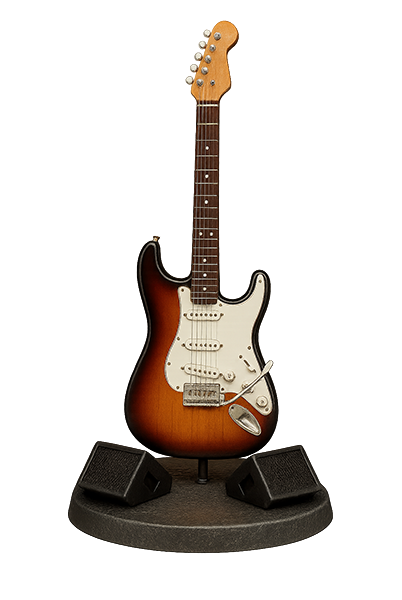
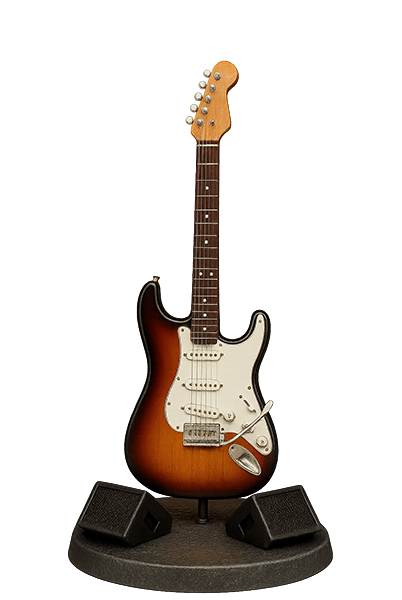
v3.4 add new figurines

Changed region(s): [[0.1493, 0.03, 0.8358, 0.99]]

diff --git a/README.md b/README.md
@@ -2,16 +2,16 @@
   
 <img width="2278" height="600" alt="background" src="https://github.com/user-attachments/assets/1a15e0c6-f3f1-47c3-a351-7187e9239bf4" />
   
-# Version 3.3 (2026 09 26)
+# Version 3.4 (2026 10 05)
 
 ## ![gb](https://github.com/Snapouille/es-theme-Animatics-DX-Music/assets/105559045/a1e80520-3bff-4ff7-9bbf-d96489424fc3)  
   
-This add-on gives you access to over 2200 figurines that will appear in the game carousel view of the Animatics-DX theme. The figurines are displayed either by family or by the name of the games in your gamelists. The directories are organized as follows:
+This add-on gives you access to over 2365 figurines that will appear in the game carousel view of the Animatics-DX theme. The figurines are displayed either by family or by the name of the games in your gamelists. The directories are organized as follows:
 
 **_inc\figurines\family**: for figurines categorized by family  
 **_inc\figurines\gameName**: for figurines categorized by game name
 
-These figurines were created with the help of ChatGPT by Patrix91, Cyraxcop84, Myos, Aynshe and myself. Of course, you can add your own figurines and even share them with us so we can integrate them directly into the add-on. You will find a text file named "ChatGPT figurines script"—simply copy and paste this text into ChatGPT to generate figurines with the quality we are looking for.
+These figurines were created with the help of ChatGPT by Patrix91, Cyraxcop84, Myos, Aynshe, Nouredine and myself. Of course, you can add your own figurines and even share them with us so we can integrate them directly into the add-on. You will find a text file named "ChatGPT figurines script"—simply copy and paste this text into ChatGPT to generate figurines with the quality we are looking for.
 This pack will be regularly updated. If you want to help, you can check the Google Sheet below to see which figurines are awaiting creation.
 
 💾 <ins> **HOW TO DOWNLOAD?** </ins> --> Click to <img width="73" height="21" alt="code" src="https://github.com/user-attachments/assets/7b8aeffd-ba90-4a55-a02b-f5ec8cd52cca" /> top right and download ZIP.    
@@ -24,12 +24,12 @@ This pack will be regularly updated. If you want to help, you can check the Goog
   
 ## ![fr](https://github.com/Snapouille/es-theme-Animatics-DX-Music/assets/105559045/c889ac90-f68b-4008-80ff-7d1903eed8eb)  
 
-Cet add-on vous donne accès à plus de 2200 figurines qui s'afficheront dans la vue gamecarousel du thème Animatics-DX. Les figurines sont affichées soit par famille, soit par nom des jeux de vos gamelists. Les répertoires sont organisés comme suit :
+Cet add-on vous donne accès à plus de 2365 figurines qui s'afficheront dans la vue gamecarousel du thème Animatics-DX. Les figurines sont affichées soit par famille, soit par nom des jeux de vos gamelists. Les répertoires sont organisés comme suit :
 
 **_inc\figurines\family** : pour les figurines classées par famille  
 **_inc\figurines\gameName** : pour les figurines classées par nom de jeu
 
-Ces figurines ont été créées avec l’aide de ChatGPT par Patrix91, Cyraxcop84, Myos, Aynshe et moi-même. Bien sûr, vous pouvez ajouter vos propres figurines et même nous les partager pour qu’elles soient intégrées directement dans l’add-on. Vous trouverez un fichier texte nommé "ChatGPT figurines script" : il vous suffit de copier-coller ce texte dans ChatGPT pour générer des figurines avec la qualité que nous recherchons.
+Ces figurines ont été créées avec l’aide de ChatGPT par Patrix91, Cyraxcop84, Myos, Aynshe, Nouredine et moi-même. Bien sûr, vous pouvez ajouter vos propres figurines et même nous les partager pour qu’elles soient intégrées directement dans l’add-on. Vous trouverez un fichier texte nommé "ChatGPT figurines script" : il vous suffit de copier-coller ce texte dans ChatGPT pour générer des figurines avec la qualité que nous recherchons.
 Ce pack sera régulièrement mis à jour. Si vous souhaitez aider, vous pouvez consulter le Google Sheet ci-dessous pour voir quelles figurines sont en attente de création.
 
 💾 <ins> **COMMENT TELECHARGER ?** </ins> --> Cliquer sur <img width="73" height="21" alt="code" src="https://github.com/user-attachments/assets/0b30be1b-d912-4352-9cf8-b48cc21d6f78" /> en haut à droite et download ZIP.   
@@ -42,7 +42,8 @@ Ce pack sera régulièrement mis à jour. Si vous souhaitez aider, vous pouvez c
 ---
   
 📊 **GOOGLE SHEET LINK**   
-https://docs.google.com/spreadsheets/d/1A24V778whCrPeosAF64T8U6JRENZGM22/edit?usp=sharing&ouid=100210971308392868740&rtpof=true&sd=true
+https://docs.google.com/spreadsheets/d/1A24V778whCrPeosAF64T8U6JRENZGM22/edit?usp=sharing&ouid=100210971308392868740&rtpof=true&sd=true  
+  
   
 ---
   
@@ -85,4 +86,5 @@ V 3.0 - (2026 09 12) - Add 086 figurines 	(Myos)
 V 3.1 - (2026 09 17) - Add 176 figurines 	(Snapouille)  
 V 3.2 - (2026 09 26) - Add 114 figurines 	(Nouredine)  
 V 3.3 - (2026 09 17) - Add 093 figurines 	(Snapouille)  
+V 3.4 - (2026 10 05) - Add 141 figurines 	(Snapouille)  
  
